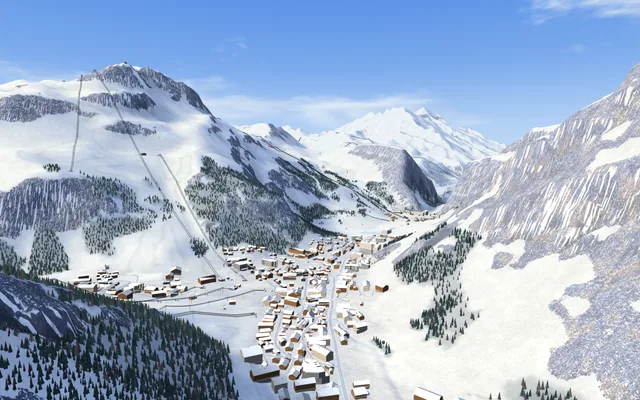
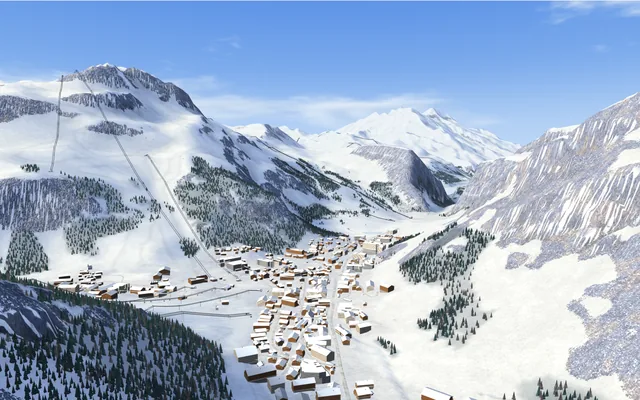
Ski Alpen: picker pictures re-rendered for nine resorts (current far forests + stations), IMG_VERSION 4; HANDOFF flat streets + pictures

diff --git a/pb/ski/picker.js b/pb/ski/picker.js
@@ -6,7 +6,7 @@ import { RESORTS } from './resort-data.js';
 import { PICKER_STATS } from './picker-stats.js';
 import { createStore } from './progress.js';
 
-const IMG_VERSION = 3;                    // bump when the pictures are rendered again (sw.js keeps ?v= files cache-first)
+const IMG_VERSION = 4;                    // bump when the pictures are rendered again (sw.js keeps ?v= files cache-first)
 const IMG_WIDTHS = [640, 1200];
 const IMG_RATIO = [16, 10];
 

diff --git a/pb/ski.html b/pb/ski.html
@@ -83,7 +83,7 @@
 "/pb/ski/pano.js":"/pb/ski/pano.js?v=1c656edfd0",
 "/pb/ski/photo.js":"/pb/ski/photo.js?v=dd40b9d2ff",
 "/pb/ski/picker-stats.js":"/pb/ski/picker-stats.js?v=3e1cd0f0a8",
-"/pb/ski/picker.js":"/pb/ski/picker.js?v=ea17b4701d",
+"/pb/ski/picker.js":"/pb/ski/picker.js?v=414acbe9ab",
 "/pb/ski/pistes.js":"/pb/ski/pistes.js?v=e51753d08c",
 "/pb/ski/post.js":"/pb/ski/post.js?v=db5b65d190",
 "/pb/ski/progress.js":"/pb/ski/progress.js?v=df2adc1740",

diff --git a/scripts/ski/picker_images.py b/scripts/ski/picker_images.py
@@ -11,7 +11,7 @@ import io
 import os
 import sys
 
-from PIL import Image
+from PIL import Image, ImageFilter
 
 REPO = os.path.dirname(os.path.dirname(os.path.dirname(os.path.abspath(__file__))))
 OUT = os.path.join(REPO, "pb", "ski", "img")
@@ -38,7 +38,7 @@ def encode(im, width):
         small.save(buf, "WEBP", quality=q, method=6)
         if buf.tell() <= MAX_BYTES:
             return buf.getvalue(), q
-    raise SystemExit(f"cannot get {width} px under {MAX_BYTES} bytes")
+    return None, 0
 
 
 def main():
@@ -49,6 +49,12 @@ def main():
         im = crop_16_10(Image.open(path).convert("RGB"), float(fy or 0.5))
         for width in SIZES:
             data, q = encode(im, width)
+            for blur in (1.0, 1.6, 2.2):                # too detailed for 80 KB (far forests): soften a little, like Laax's picture
+                if data is not None:
+                    break
+                data, q = encode(im.filter(ImageFilter.GaussianBlur(blur * width / 640)), width)
+            if data is None:
+                raise SystemExit(f"cannot get {width} px under {MAX_BYTES} bytes")
             name = f"{rid}-{width}.webp"
             with open(os.path.join(OUT, name), "wb") as f:
                 f.write(data)

diff --git a/pb/ski/HANDOFF.md b/pb/ski/HANDOFF.md
@@ -2425,3 +2425,27 @@ where they were; every new part is drawn only (det, never solid) and inside the 
   skier-shots.mjs --board; the close-up sheets are in ~/Library/Caches/ski-work/skier/v4/fig-board*.png).
 - Open: no grab / trick names specific to the board; goofy stance not offered; the ride DOWN boarding keeps the ski carry poses for the board
   (board in the hand); a board NPC's beginner "plough" is a heel-side skid blended with the carve poses (a little shrink in the blend).
+
+## Flat streets + picker pictures (28 Nov 2026)
+- **Road beds**: the village streets of every resort now lie on ground that is level ACROSS the street (Ian / Courchevel: streets banked sideways like the 5 m terrain).
+  `scripts/ski/road_beds.py` (`flatten_roads`, called from `bake.py` after the grooming and BEFORE the station pads, so a pad wins): the kept streets of
+  roads.json (the very polylines the game draws) are sampled every 2.5 m, their height profile smoothed over ~12 m and agreed between streets that meet (6 m),
+  every 5 m node takes the height of its nearest street sample (flat out to half width + 4 m, smooth step over 10 m back into the slope), never more than
+  5 m of cut / fill, nothing under pistes (groomed mask) or inside a house footprint (`ground` of the houses is fixed: move <= 1.2 m per m from the wall).
+- **`scripts/ski/rebed.py <rid> ...`** re-bakes ONLY that: it runs bake.py, then puts every other file and every other key of resort.json back as it was
+  (a full re-bake of the old resorts drifts: piste order / ids, buildings, classes differ from what is live, which would rename pistes / boards). It takes the
+  new `t/*.bin`, `far.bin`, `shadow-*.webp` and `resort.json["tiles"]`. Measured before: `SKI_NO_BEDS=1 bake.py` gives tiles / far / shadows byte-identical to the
+  committed ones in all 11 resorts, so the diff is the beds alone. Bake log shows `road beds: ... nodes moved`.
+- **Check** `node scripts/ski/bed-check.mjs [--resorts a,b] [--data DIR] [--near x,z,r] [--worst]`: cross slope of every street (height at +-half width
+  along the normal). Mean / p90 before -> after: 3vallees 4.2 / 10.8 -> 1.4 / 3.4 deg, arlberg 5.7 / 14.4 -> 1.5 / 3.7, killy 3.3 / 8.6 -> 1.2 / 3.0, kronplatz 6.6 / 18.3
+  -> 1.3 / 3.3, zermatt 7.6 / 19.0 -> 2.0 / 5.2, vialattea 6.5 / 14.5 -> 1.5 / 3.8, davos 4.9 / 12.5 -> 1.4 / 3.5, laax 5.9 / 13.8 -> 1.8 / 4.6, soelden 6.3 / 17.0 ->
+  1.5 / 3.8, livigno 4.4 / 11.2 -> 1.1 / 2.9, obertauern 4.0 / 9.5 -> 1.1 / 2.8. The rest (p99 ~12 deg) are streets squeezed between a house and a slope
+  that stays steep, streets beside a groomed piste (the piste keeps its surface) and junction corners. Data size: +8 ... +52 KB per resort (+0.1-0.4 %, killy
+  8468 -> 8476 KB, arlberg 19832 -> 19884 KB). pistes / lifts / buildings / classes / map / SQL unchanged (no Supabase change).
+- Re-baked (terrain only): killy, 3vallees, zermatt, arlberg, kronplatz, vialattea, obertauern, livigno, davos, laax, soelden. Before / after shots:
+  ~/Library/Caches/ski-work/streets-flat/{before,after}/ (3vallees Courchevel 1850 spot, chase / eye / side / top). ground-check Chromium 11 / 11 green (streets 0 cm,
+  rays 6 mm, terrain cracks 0). **New resort**: after a normal `bake.py` nothing more to do (the beds are part of it); for a live resort use `rebed.py`.
+- **Picker pictures**: all resorts except Laax and Soelden re-rendered (current far forests, new stations), `IMG_VERSION` 4. Poses (x,z,above,tx,tz,above2,fov), shot
+  with `--size 1200x806` (the page header strip is 56 px: `picker_images.py rid=png:1` keeps the bottom 16:10), `--wait 20000` (houses need the time): killy, 3vallees,
+  zermatt, arlberg, kronplatz, vialattea as before; obertauern 5600,3200,150,3900,4100,60,55; livigno 7500,2200,330,6000,6000,0,50; davos 2500,17500,350,6000,15000,200,55
+  (the old poses of these three were not written down, new ones look at the same places). `picker_images.py` now blurs 1.0 / 1.6 / 2.2 px when a picture does not fit 80 KB.
